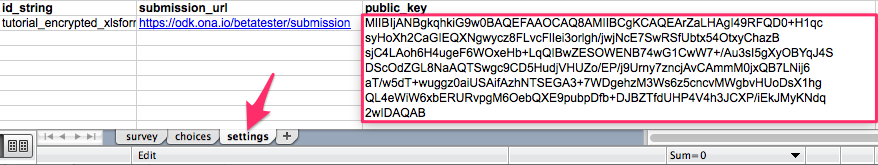
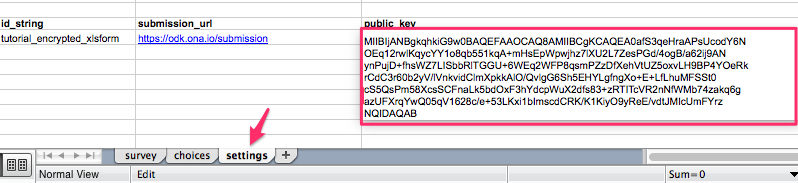
AR Made the correction on the submission_url

diff --git a/faqs/_posts/2014-09-23-encrypted-forms.md b/faqs/_posts/2014-09-23-encrypted-forms.md
@@ -86,7 +86,7 @@ Finally, you have your two keys:
 Follow these steps to add the correct encryption syntax in your XLSForm:
 
 1. Add a worksheet called **settings**;
-1. In this worksheet, create three columns: **id_string**, **submission_url**, and **public_key**. The **id_string** column specifies the form id name.  The **submission_url** is the url that will accept the encrypted form submissions.  This is the same url that you type into the ODK Collect application under settings to download the forms from your account. However, you must add **/YOUR_USERNAME/submission** to the end of this url.  Finally, the **public_key** column contains the public key (without any spaces or line breaks) that was generated using the OpenSSL software.
+1. In this worksheet, create three columns: **id_string**, **submission_url**, and **public_key**. The **id_string** column specifies the form id name.  The **submission_url** is the url that will accept the encrypted form submissions.  This is the same url that you type into the ODK Collect application under settings to download the forms from your account. However, you must add **/submission** to the end of this url.  Finally, the **public_key** column contains the public key (without any spaces or line breaks) that was generated using the OpenSSL software.
 <br>
 ![](/content/screenshots/faq/encrypted-forms-public-key.png)
 <br><br>
